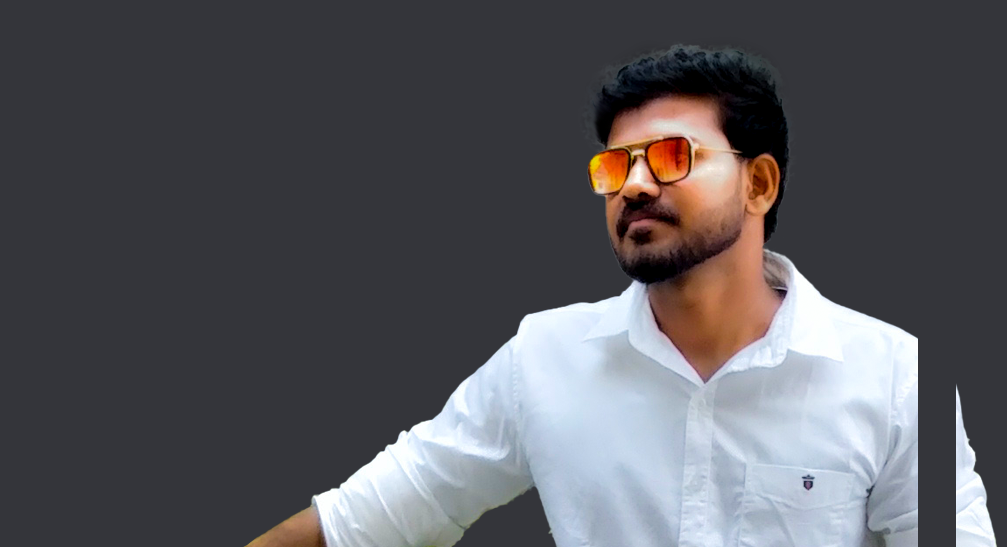
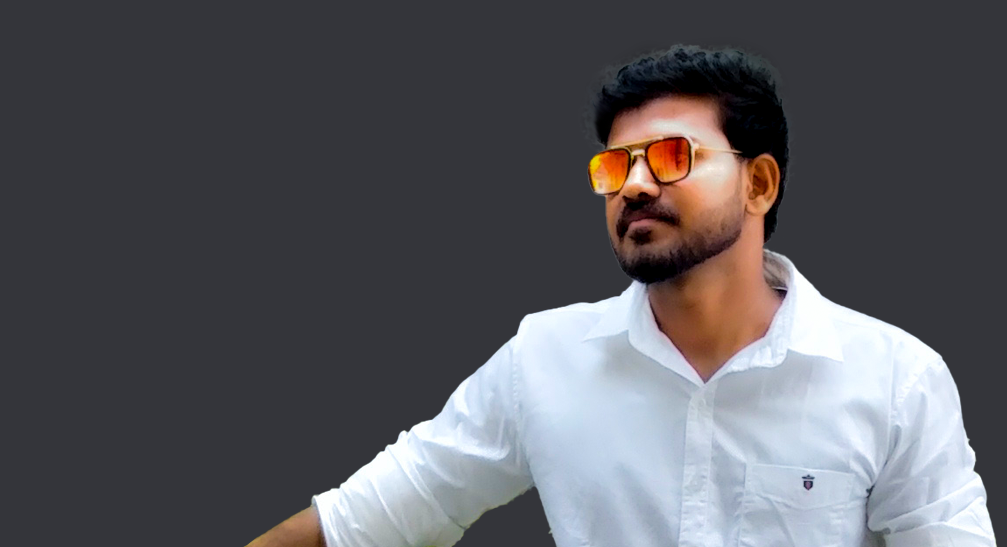
modify profile img

Changed region(s): [[0.8928, 0.6216, 0.9543, 1.0]]

diff --git a/style.css b/style.css
@@ -137,10 +137,12 @@ input::placeholder {
     display: flex;
     flex-direction: column;
     font-size: 35px;
-    padding-left: 300px;
+    padding: 0 5px;
+    margin-left: 295px;
     justify-content: end;
     align-items: center;
     height: 100vh;
+    background-color: var(--primary);
 }
 
 .social-icons a {
@@ -487,8 +489,11 @@ animate
     .social_icons{
         display: none;
     }
+    /*profile section*/
+    #full-row {
+        background-image: url(image/por-1.PNG);
+    }
     /* About section  */
-
     .about_info p{
         font-size: 20px;
         padding: 20px 20px;
